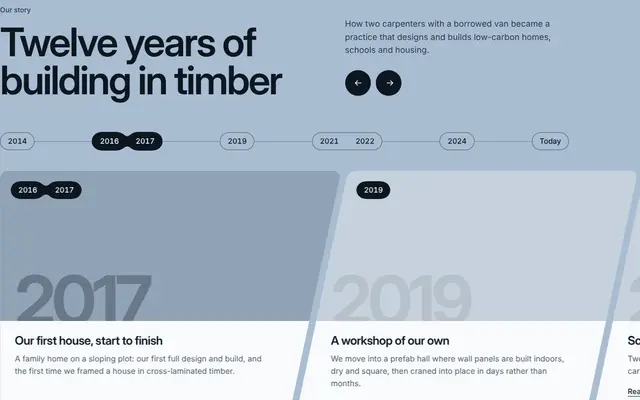
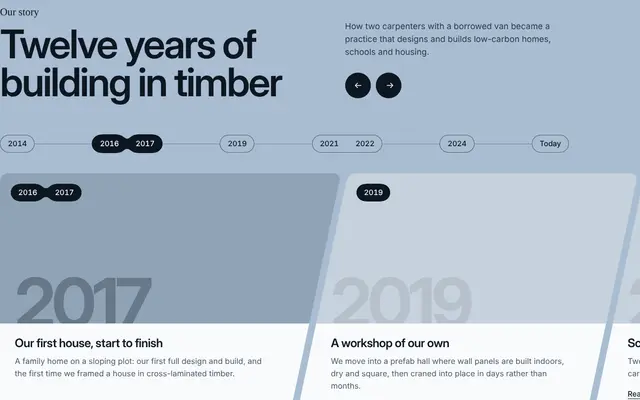
seam-history-timeline: round 3 fixes and review log
Last milestone rests on the heading line, rail pill follows the drag,
rings fade by coverage only, serif label voice, eager photos with a
fade-in, focus bar instead of a title underline, stronger hover.

Claude-Session: https://claude.ai/code/session_01TgBuMr7atYf2qaCYZsKAVj

diff --git a/components/seam-history-timeline/seam-history-timeline.tsx b/components/seam-history-timeline/seam-history-timeline.tsx
@@ -89,6 +89,8 @@ export type SeamHistoryTimelineProps = {
   /** Any CSS length. The section sizes to its content by default. */
   minHeight?: string
   displayFont?: string
+  /** The small label over the heading. A serif by default, as a quiet second voice. */
+  labelFont?: string
   textFont?: string
   /** Accessible names for the buttons and the region. */
   labels?: { previous?: string; next?: string; rail?: string }
@@ -289,7 +291,7 @@ const STYLES = `
 .sht ::selection{background:var(--pill);color:var(--on-pill)}
 .sht__wrap{width:100%;max-width:1280px;margin:0 auto;padding:0 clamp(16px,5vw,64px)}
 .sht__head{display:grid;grid-template-columns:minmax(0,1.35fr) minmax(0,1fr);gap:24px clamp(32px,6vw,96px);align-items:end}
-.sht__eyebrow{margin:0 0 18px;font-size:14px;line-height:1.2;font-weight:500;color:var(--muted-on-field)}
+.sht__eyebrow{margin:0 0 14px;font-family:var(--label-font);font-size:21px;line-height:1.2;font-weight:400;letter-spacing:-.005em;color:var(--on-field)}
 .sht__h{margin:0;font-family:var(--display-font);font-weight:600;font-size:clamp(40px,5.6vw,80px);line-height:.96;letter-spacing:-.038em;color:var(--on-field);text-wrap:balance;max-width:13ch}
 .sht__side{display:flex;flex-direction:column;gap:28px;padding-bottom:6px}
 .sht__intro{margin:0;font-size:17px;line-height:1.55;color:var(--muted-on-field);max-width:44ch;text-wrap:pretty}
@@ -299,7 +301,7 @@ const STYLES = `
 .sht__btn:not([disabled]):active{transform:scale(.96)}
 .sht__btn[disabled]{cursor:default;background:transparent;color:var(--muted-on-field);box-shadow:inset 0 0 0 1.5px currentColor;opacity:.55}
 .sht__btn:focus-visible,.sht__slot:focus-visible,.sht__link:focus-visible,.sht__viewport:focus-visible{outline:2px solid var(--on-field);outline-offset:3px}
-@supports selector(:has(a)){.sht__viewport:focus-visible{outline:none}.sht:has(.sht__viewport:focus-visible:not([data-dragging=true])) .sht__slot[aria-current]{outline:2px solid var(--on-field);outline-offset:4px}.sht:has(.sht__viewport:focus-visible) .sht__card[data-active=true] .sht__title{text-decoration:underline;text-decoration-thickness:2px;text-underline-offset:6px}}
+@supports selector(:has(a)){.sht__viewport:focus-visible{outline:none}.sht:has(.sht__viewport:focus-visible:not([data-dragging=true])) .sht__slot[aria-current]{outline:2px solid var(--on-field);outline-offset:4px}.sht:has(.sht__viewport:focus-visible:not([data-dragging=true])) .sht__card[data-active=true] .sht__text{box-shadow:inset 4px 0 0 var(--ink)}}
 @media (hover:hover){.sht__btn:not([disabled]):hover [data-dir=next]{transform:translateX(3px)}.sht__btn:not([disabled]):hover [data-dir=prev]{transform:translateX(-3px)}}
 .sht__rail{position:relative;margin:clamp(34px,5vw,58px) -10px 0;padding:4px 10px;overflow-x:auto;overflow-y:hidden;scrollbar-width:none}
 .sht__rail::-webkit-scrollbar{display:none}
@@ -307,7 +309,6 @@ const STYLES = `
 .sht__railin{position:relative;display:flex;justify-content:space-between;gap:28px;min-width:max-content;width:100%;padding:6px 0}
 .sht__axis{position:absolute;z-index:-1;left:0;right:0;top:50%;height:1px;background:var(--muted-on-field);opacity:.45;pointer-events:none}
 .sht__slot{all:unset;position:static;display:inline-flex;gap:2px;cursor:pointer;border-radius:999px;background:var(--field);box-shadow:inset 0 0 0 1px color-mix(in oklab,var(--muted-on-field) calc(70% * (1 - var(--cov,0))),transparent)}
-.sht__slot[aria-current]{box-shadow:none}
 .sht__chip{display:inline-grid;place-items:center;height:36px;padding:0 16px;border-radius:999px;font-size:15px;font-weight:500;letter-spacing:-.01em;font-variant-numeric:tabular-nums;color:var(--on-field);white-space:nowrap;transition:transform .16s var(--ease)}
 .sht__slot:active .sht__chip{transform:scale(.96)}
 @media (hover:hover){.sht__slot:not([aria-current]):hover{box-shadow:inset 0 0 0 1.5px var(--on-field)}}
@@ -323,12 +324,13 @@ const STYLES = `
 .sht__card{position:relative;flex:0 0 var(--cw);display:flex;flex-direction:column;background:var(--card);color:var(--ink);--f:0}
 .sht__card[data-active=false]{cursor:pointer}
 .sht__photo{position:relative;height:var(--ph);overflow:hidden;background:color-mix(in oklab,var(--field) 80%,var(--card))}
-.sht__photo img{position:absolute;inset:0;width:100%;height:100%;max-width:none;object-fit:cover;display:block;-webkit-user-drag:none}
+.sht__photo img{position:absolute;inset:0;width:100%;height:100%;max-width:none;object-fit:cover;display:block;-webkit-user-drag:none;opacity:0;transition:opacity .24s ease}
+.sht__photo img[data-loaded=true]{opacity:1}
 .sht__plate{position:absolute;inset:0;display:flex;align-items:flex-end;padding:0 0 0 var(--padl);overflow:hidden;background:color-mix(in oklab,var(--field) 86%,var(--on-field))}
 .sht__plate span{display:block;font-family:var(--display-font);font-weight:700;font-size:min(calc(var(--ph) * .58),calc(var(--cw) * .2));line-height:1;margin-bottom:-.2em;letter-spacing:-.055em;color:color-mix(in oklab,var(--field) 62%,var(--on-field));white-space:nowrap}
 .sht__wash{position:absolute;inset:0;background:var(--wash);pointer-events:none}
 .sht__past{position:absolute;inset:0;background:var(--field);opacity:0;pointer-events:none}
-.sht__pills{position:absolute;top:22px;left:var(--pillx);display:inline-flex}
+.sht__pills{position:absolute;top:22px;left:var(--pillx);display:inline-flex;transform:translateX(calc(var(--hv,0) * 5px))}
 .sht__pgoo,.sht__ptext{display:inline-flex;gap:6px}
 .sht__pgoo{position:relative}
 .sht__pgoo i{display:block;height:34px;border-radius:999px;background:var(--pill)}
@@ -345,7 +347,7 @@ const STYLES = `
 @media (hover:hover){.sht__link:hover svg{transform:translateX(4px)}.sht__link:hover{text-decoration-thickness:2px}}
 .sht__sr{position:absolute;width:1px;height:1px;margin:-1px;padding:0;overflow:hidden;clip:rect(0 0 0 0);white-space:nowrap;border:0}
 @media (max-width:720px){.sht__head{grid-template-columns:1fr;align-items:start}.sht__side{gap:22px}.sht__intro{font-size:16px}.sht__body{font-size:15px}.sht__btn{width:48px;height:48px}.sht__railin,.sht__lit{justify-content:flex-start;gap:22px}.sht__text{min-height:0;padding-top:22px;padding-bottom:26px}}
-@media (prefers-reduced-motion:reduce){.sht__btn,.sht__btn svg,.sht__link svg{transition:none}}
+@media (prefers-reduced-motion:reduce){.sht__btn,.sht__btn svg,.sht__link svg,.sht__photo img,.sht__pills{transition:none}}
 `
 
 const PALETTE_KEYS = ["field", "onField", "mutedOnField", "card", "ink", "muted", "pill", "onPill", "wash"]
@@ -420,6 +422,7 @@ export default function SeamHistoryTimeline({
   index,
   onChange,
   minHeight,
+  labelFont = 'ui-serif, "Iowan Old Style", "Charter", "Bitstream Charter", Georgia, serif',
   displayFont = '"Inter Display", "Inter", ui-sans-serif, system-ui, -apple-system, "Segoe UI", "Helvetica Neue", Arial, sans-serif',
   textFont = '"Inter", ui-sans-serif, system-ui, -apple-system, "Segoe UI", "Helvetica Neue", Arial, sans-serif',
   labels,
@@ -515,6 +518,7 @@ export default function SeamHistoryTimeline({
       const op = passedOpacity(i * s.step - shift, s.step)
       if (el) {
         el.style.opacity = op.toFixed(3)
+        el.style.setProperty("--hv", (hov * (1 - f)).toFixed(3))
         el.style.pointerEvents = op < 0.5 ? "none" : ""
         // The left seam only exists while there is a card to meet: as the one before fades,
         // this edge straightens, so pill, title and edge share the heading's line.
@@ -530,7 +534,7 @@ export default function SeamHistoryTimeline({
       }
       prevOp = op
       // Still to come: a pale haze. Already passed: it recedes toward the field.
-      const amount = wash * (1 - f) * (1 - 0.4 * hov)
+      const amount = wash * (1 - f) * (1 - 0.7 * hov)
       const ahead = i > s.pos.x
       const w = washRefs.current[i]
       if (w) w.style.opacity = (ahead ? amount : 0).toFixed(3)
@@ -589,7 +593,15 @@ export default function SeamHistoryTimeline({
       const s = sim.current
       const dt = Math.min(0.05, s.last ? (now - s.last) / 1000 : 1 / 60)
       s.last = now
-      const t = s.railTargets[clampIndex(s.dragging ? s.pos.x : s.target, n)]
+      let t = s.railTargets[clampIndex(s.target, n)]
+      if (s.dragging) {
+        // Mid-drag the pill stretches between the two years the strip is between.
+        const p = Math.max(0, Math.min(n - 1, s.pos.x))
+        const a = s.railTargets[Math.floor(p)]
+        const b = s.railTargets[Math.ceil(p)]
+        const k = p - Math.floor(p)
+        if (a && b) t = { l: a.l + (b.l - a.l) * k, lw: a.lw + (b.lw - a.lw) * k, r: a.r + (b.r - a.r) * k, rw: a.rw + (b.rw - a.rw) * k }
+      }
       if (s.reduced) {
         if (!s.dragging) s.pos = { x: s.target, v: 0 }
         if (t) {
@@ -755,15 +767,14 @@ export default function SeamHistoryTimeline({
   const gutter = geo.mobile ? 10 : 14
   const overlap = Math.max(0, geo.o - gutter)
   const step = Math.max(1, geo.cw - overlap)
-  const vpW = geo.vw
   useIsoLayoutEffect(() => {
     sim.current.step = step
-    // The strip stops when the last card is flush with the container, instead of leaving an empty field.
-    sim.current.maxShift = Math.max(0, (n - 1) * step + geo.cw - vpW)
+    // Every milestone, the last included, rests on the heading's left line; the field shows after the last.
+    sim.current.maxShift = Infinity
     sim.current.geo = { cw: geo.cw, h: geo.h, o: geo.o, r: geo.mobile ? 14 : 18, ph: geo.ph, padBase: geo.mobile ? 18 : 30, pillBase: geo.mobile ? 16 : 22 }
     sim.current.lean = []
     paint()
-  }, [step, paint, n, geo.cw, vpW, geo.o, geo.ph, geo.h])
+  }, [step, paint, n, geo.cw, geo.o, geo.ph, geo.h, geo.mobile])
 
   // Follow the active index.
   const first = React.useRef(true)
@@ -901,6 +912,7 @@ export default function SeamHistoryTimeline({
     vars["--d-" + CSS_NAMES[i]] = (dark as { [k: string]: string })[k]
   })
   vars["--display-font"] = displayFont
+  vars["--label-font"] = labelFont
   vars["--text-font"] = textFont
   if (minHeight) vars.minHeight = minHeight
 
@@ -1069,9 +1081,14 @@ export default function SeamHistoryTimeline({
                         alt={m.alt ?? ""}
                         width={geo.cw || 860}
                         height={geo.ph || 380}
-                        loading={Math.abs(i - (controlled ? (index as number) : startIndex)) <= 1 ? "eager" : "lazy"}
                         decoding="async"
                         draggable={false}
+                        ref={(el) => {
+                          if (el && el.complete && el.naturalWidth > 0) el.dataset.loaded = "true"
+                        }}
+                        onLoad={(e) => {
+                          e.currentTarget.dataset.loaded = "true"
+                        }}
                         onError={() => setFailed((f) => ({ ...f, [m.image as string]: true }))}
                         style={m.imagePosition ? { objectPosition: m.imagePosition } : undefined}
                       />

diff --git a/media/seam-history-timeline/review.md b/media/seam-history-timeline/review.md
@@ -77,3 +77,35 @@ harbour light a powder steel close to the reference; (4) phone text measure too 
 (5) hide the focus ring during a drag; (6) the plate numeral's crop looked accidental;
 (7) hazed cards faded the title but not the body; (8) the second demo drifted to plain grey:
 show another preset.
+
+## Round 3 (new critic): REDO
+
+| | Score |
+|---|---|
+| (u) usability | 8 |
+| (a) idea | 7 |
+| (b) craft | 7 |
+| (c) originality | 7 |
+| (d) install-safety | 9 |
+
+Average 7.6. Round 2's fixes confirmed (straight left edge once the previous card has gone,
+coverage-faded rings, powder-steel default, phone measure, signal demo). Ranked changes:
+(1) the end state stopped early and stranded the passed card at the window edge: let the last
+card rest on the same left line; (2) the year being left lost its ring mid-drag; (3) the rail
+pill jumped between slots during a drag instead of following the hand; (4) all-Inter type had
+no second voice: a serif label, as in the reference; (5) lazy photos could pop in after a far
+jump; (6) the focus underline made a title read as a link; (7) hover on hazed cards too weak;
+(8) a possible 1 px step at the plate's right edge (software renderer, unconfirmed).
+
+## After round 3 (no further critic: the brief allows three rounds)
+
+Applied 1 to 7: the last milestone rests on the heading's left line with field after it; rings
+fade by coverage only; mid-drag the pill stretches between the two years the strip is between;
+a `labelFont` prop with a system-serif default for the label; photos load up front and fade in
+(instant under reduced motion); keyboard focus shows as a ring on the current year plus a bar
+down the focused card's text; hover lifts 70% of the haze and nudges the card's pills.
+Not done: 8 (could not reproduce outside the software renderer).
+
+**Status:** three rounds without a SHIP (best 7.6), so the piece lives on
+`claude/review-seam-history-timeline` for the owner to judge. Photos could not be checked in
+this sandbox; open both demos in a normal browser before publishing.

diff --git a/components/seam-history-timeline/README.md b/components/seam-history-timeline/README.md
@@ -24,8 +24,9 @@ years rests as two fused pills, on the rail and on its photo.
 - Images fail gracefully: without an image, or if it does not load, the card shows a plate in
   the field colour with the year set large.
 - A two-year milestone is one capsule on the rail, so it reads as one target.
-- Keyboard focus on the strip rings the current year and underlines the focused title (the
-  cards are clipped by their seams, so an outline would be cut).
+- Keyboard focus on the strip rings the current year and draws a bar down the left of the
+  focused card's text (the cards are clipped by their seams, so an outline would be cut).
+- Photos load up front and fade in when they arrive, so a far jump never shows a pop.
 - Light and dark versions of every preset. `theme="auto"` follows a `.dark` class on any
   ancestor (the shadcn / Tailwind convention).
 - Under `prefers-reduced-motion` the strip and the pill jump instead of flowing.
@@ -52,6 +53,7 @@ section sizes to its content (`minHeight` is optional).
 | `index` / `onChange` | none | Controlled focus, or just listen for changes. |
 | `minHeight` | none | Any CSS length, e.g. `"100svh"`. |
 | `displayFont` / `textFont` | Inter Display / Inter, then the system UI face, Helvetica Neue, Arial | Pass your own stacks, e.g. `"var(--font-sans)"`. |
+| `labelFont` | the system serif (`ui-serif`, Iowan Old Style, Charter, Georgia) | The small label over the heading: a quiet second voice. |
 | `labels` | English | `{ previous, next, rail }` accessible names. |
 | `className` | none | On the `<section>`. |
 
